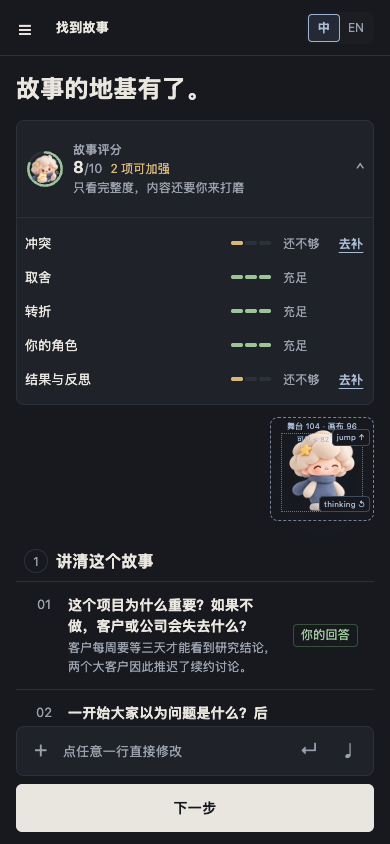
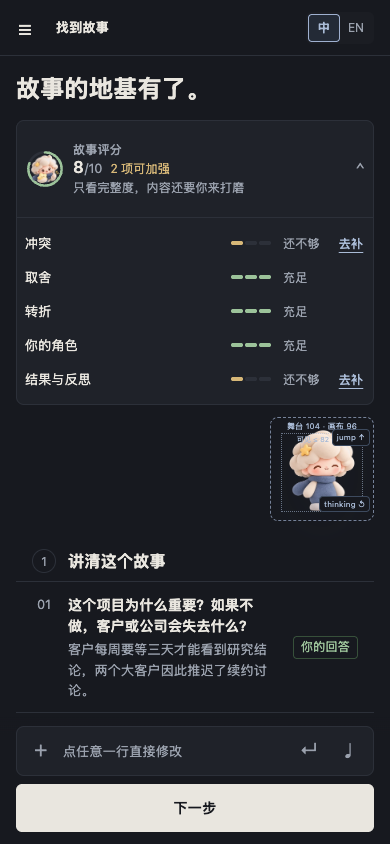
design: align mobile Step 2 components

diff --git a/docs/research/step2-lumi-layout/mockup.html b/docs/research/step2-lumi-layout/mockup.html
@@ -153,11 +153,11 @@
     .composer-active .coach-rail { position:static; }
     .is-expanded .score-card { grid-column:1/-1; }
     .is-expanded .lumi-stage { grid-column:2; }
-    .part-head { margin-top:var(--s-4); padding:0 var(--s-2); gap:var(--s-2); }
-    .foundation li { grid-template-columns:24px minmax(0,1fr) auto; min-height:0; padding:var(--s-3) var(--s-4); gap:var(--s-3); scroll-margin-top:176px; }
-    .is-expanded .foundation li { scroll-margin-top:72px; }
+    .part-head { margin-top:var(--s-4); grid-template-columns:24px minmax(0,1fr); padding:0 var(--s-4); gap:var(--s-3); }
+    .foundation li { grid-template-columns:24px minmax(0,1fr) auto; min-height:0; padding:var(--s-3) var(--s-4); gap:var(--s-3); scroll-margin-top:188px; }
+    .is-expanded .foundation li,.composer-active .foundation li { scroll-margin-top:72px; }
     .row-body strong { font-size:14px; }
-    .row-body p { font-size:12px; line-height:1.55; }
+    .row-body p { font-size:13px; line-height:1.55; }
     .chip { font-size:12px; }
     .three { margin-top:var(--s-4); }
     .footer { left:0; padding:9px var(--s-4) var(--s-3); }

diff --git a/docs/research/STEP2_FULL_BODY_LUMI_LAYOUT.md b/docs/research/STEP2_FULL_BODY_LUMI_LAYOUT.md
@@ -8,7 +8,7 @@ Use StoryScore and a full-body Lumi as one coaching region beside, or above, the
 
 - At 1280px, keep a 280px coach rail beside the story. StoryScore stays first. Lumi stands below it in a 256px square stage.
 - Below 1248px, move the coaching region above the rows. This is the first viewport where the 232px sidebar, 64px page gutters, 640px story, 32px column gap, and 280px rail no longer all fit.
-- At 390px, use a closed 104px-high coaching band below the 56px top bar. When StoryScore is open, or the software keyboard is likely present, put the coaching region back in normal document flow.
+- At 390px, use a closed coaching band below the 56px top bar. Its 104px content plus 12px bottom padding makes the sticky region 116px tall. When StoryScore is open, or the software keyboard is likely present, put the coaching region back in normal document flow.
 - Keep the face inside StoryScore. The face communicates the score tier; the full-body render is Lumi's coaching presence and the animation anchor. They have different jobs.
 - Use `assets/lumi/source/standing.webp` without changing the face, hair, scarf, colours, or clay texture.
 
@@ -49,7 +49,7 @@ No new token is required.
 | Secondary text | `#677181` | `#9aa1ad` | `muted` |
 | Motion annotation / focus | `#7e8fae` | `#9fb0cf` | `blue` / `action-line` |
 
-Typography stays on the design-system sans stack. Page title is 24/600; section title is 16/600; question and answer text remain 14px; StoryScore labels, notes, status, and action links remain 12px. Georgia is not introduced.
+Typography stays on the design-system sans stack. Page title is 24/600; section title and question text remain 16/600 and 14px respectively; answer text remains 13px; StoryScore labels, notes, status, and action links remain 12px. Georgia is not introduced.
 
 ## Layout and spacing
 
@@ -76,7 +76,7 @@ Typography stays on the design-system sans stack. Page title is 24/600; section 
 - Closed StoryScore: the coaching band is `minmax(0, 1fr) 104px` with an `s-3` = 12px gap. It may stick directly below the top bar only when the layout viewport height is at least 700px and the Composer is not focused.
 - Open StoryScore: the card spans the full width, retains all five dimension rows, statuses, and `去补` links, and the full-body Lumi moves to a normal-flow row below it. The card stays open until the user closes it; the layout must not override disclosure intent.
 - Short viewport or Composer focus: remove sticky positioning from the whole coaching band. Use `window.visualViewport` where available; treat `visualViewport.height < 700px`, or a material contraction after Composer focus, as keyboard/short-viewport mode. Restore stickiness only after blur and viewport recovery.
-- Closed sticky band: row and review targets use `scroll-margin-top: 176px` = 56px top bar + 104px coaching band + 16px breathing room.
+- Closed sticky band: row and review targets use `scroll-margin-top: 188px` = 56px top bar + 116px coaching band + 16px breathing room.
 - Open or non-sticky band: `scroll-margin-top: 72px` = 56px top bar + 16px breathing room. A `去补` target therefore lands below the top bar without being covered.
 - Mobile rows keep `24px minmax(0,1fr) auto`, `s-3` = 12px gap, and `s-4` = 16px horizontal padding. Status chips, including the three-item `初稿` source status, remain visible.
 - Composer stays at `composer-h` = 48px with 6px padding and 36px icon controls. The step CTA remains 48px.
